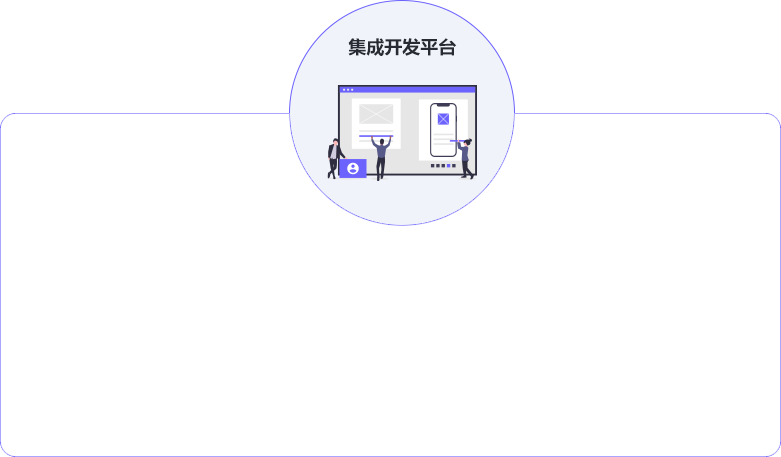
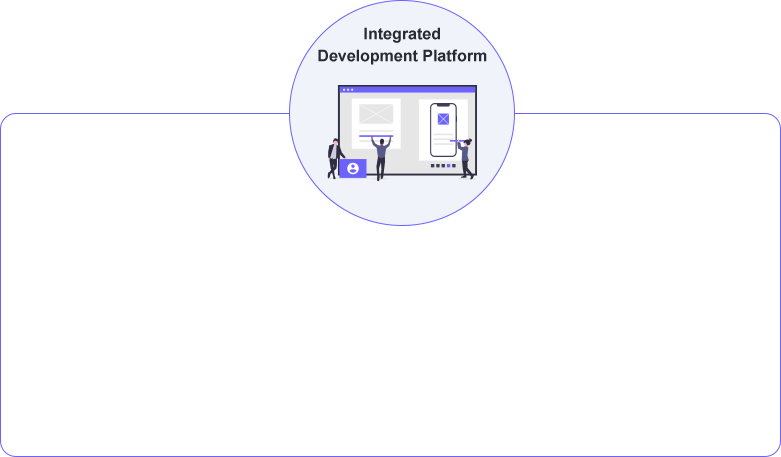
修改首页英文图片问题

Changed region(s): [[0.0, 0.9803, 1.0, 1.0], [0.3995, 0.0613, 0.6146, 0.1532], [0.9834, 0.2451, 1.0, 0.2757]]

diff --git a/src/pages/home/Home.vue b/src/pages/home/Home.vue
@@ -166,7 +166,6 @@ export default {
         this.img_mecm = require('../../assets/images/home_link_mecm_en.png')
         this.img_process = require('../../assets/images/home_link_process_en.png')
       }
-      console.log(this.img_dev)
     }
   }
 }
@@ -312,7 +311,7 @@ export default {
       align-items: center;
       img{
         height: 100%;
-        max-height: 205px;
+        max-height: 222px;
       }
     }
     .devProcess{
@@ -352,7 +351,7 @@ export default {
         height: 400px;
       }
       .bg_process{
-        height: 170px;
+        height: 180px;
         margin-top: -190px;
       }
     }
@@ -361,7 +360,7 @@ export default {
         height: 360px;
       }
       .bg_process{
-        height: 160px;
+        height: 165px;
         margin-top: -175px;
       }
     }
@@ -370,7 +369,7 @@ export default {
         height: 320px;
       }
       .bg_process{
-        height: 140px;
+        height: 155px;
         margin-top: -155px;
       }
     }
@@ -380,7 +379,7 @@ export default {
       }
       .bg_process{
         height: 130px;
-        margin-top: -150px;
+        margin-top: -135px;
       }
     }
     @media screen and (max-width: 1150px){
@@ -393,6 +392,10 @@ export default {
       }
     }
     @media screen and (max-width: 1030px){
+      .bg_process{
+        height: 130px;
+        margin-top: -130px;
+      }
       .platform_link{
         overflow-x: auto;
         overflow-y: hidden;
